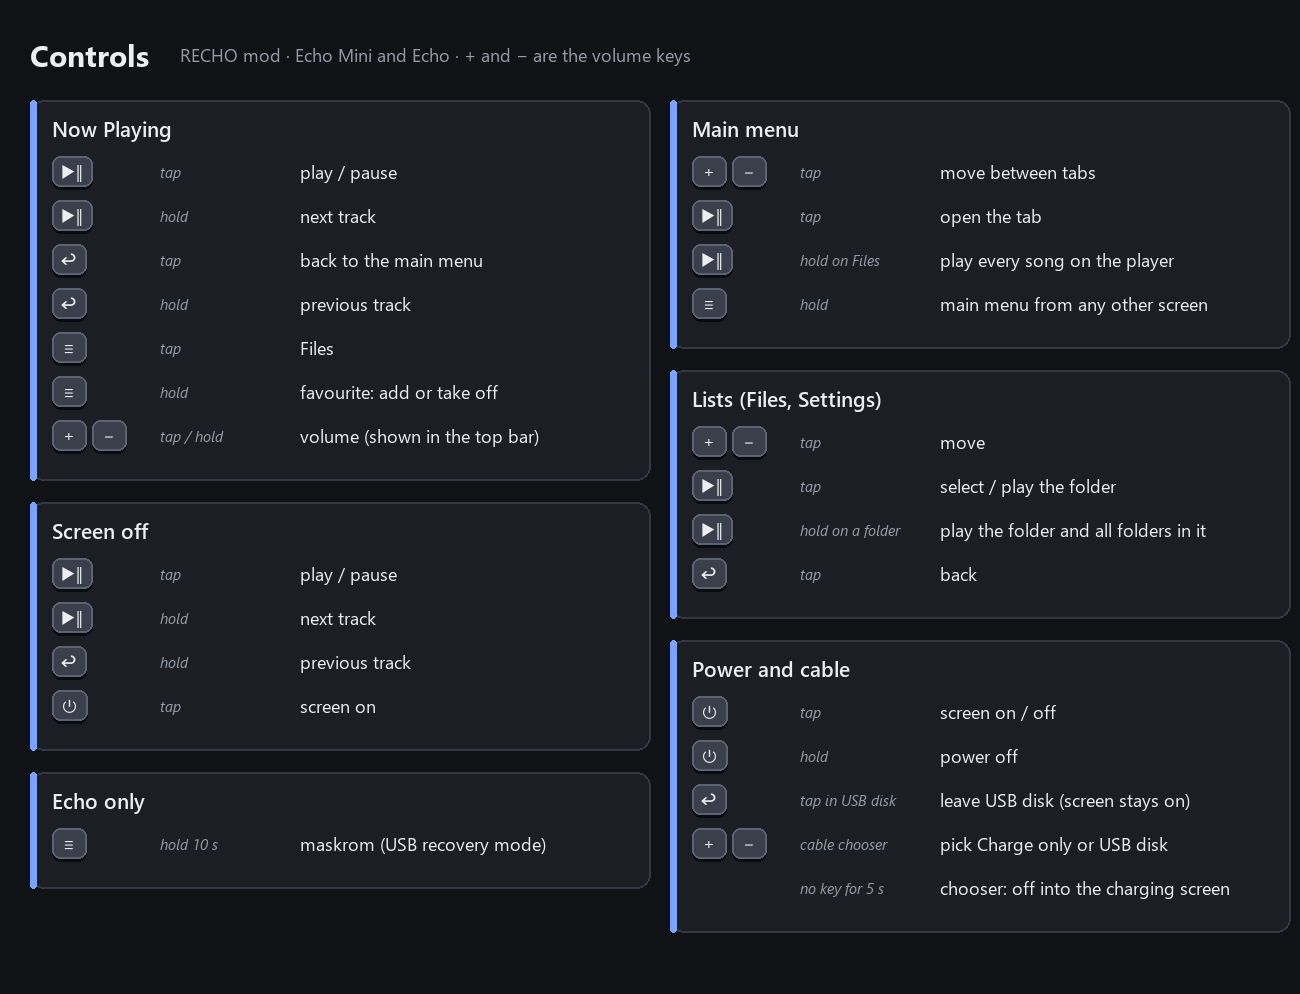
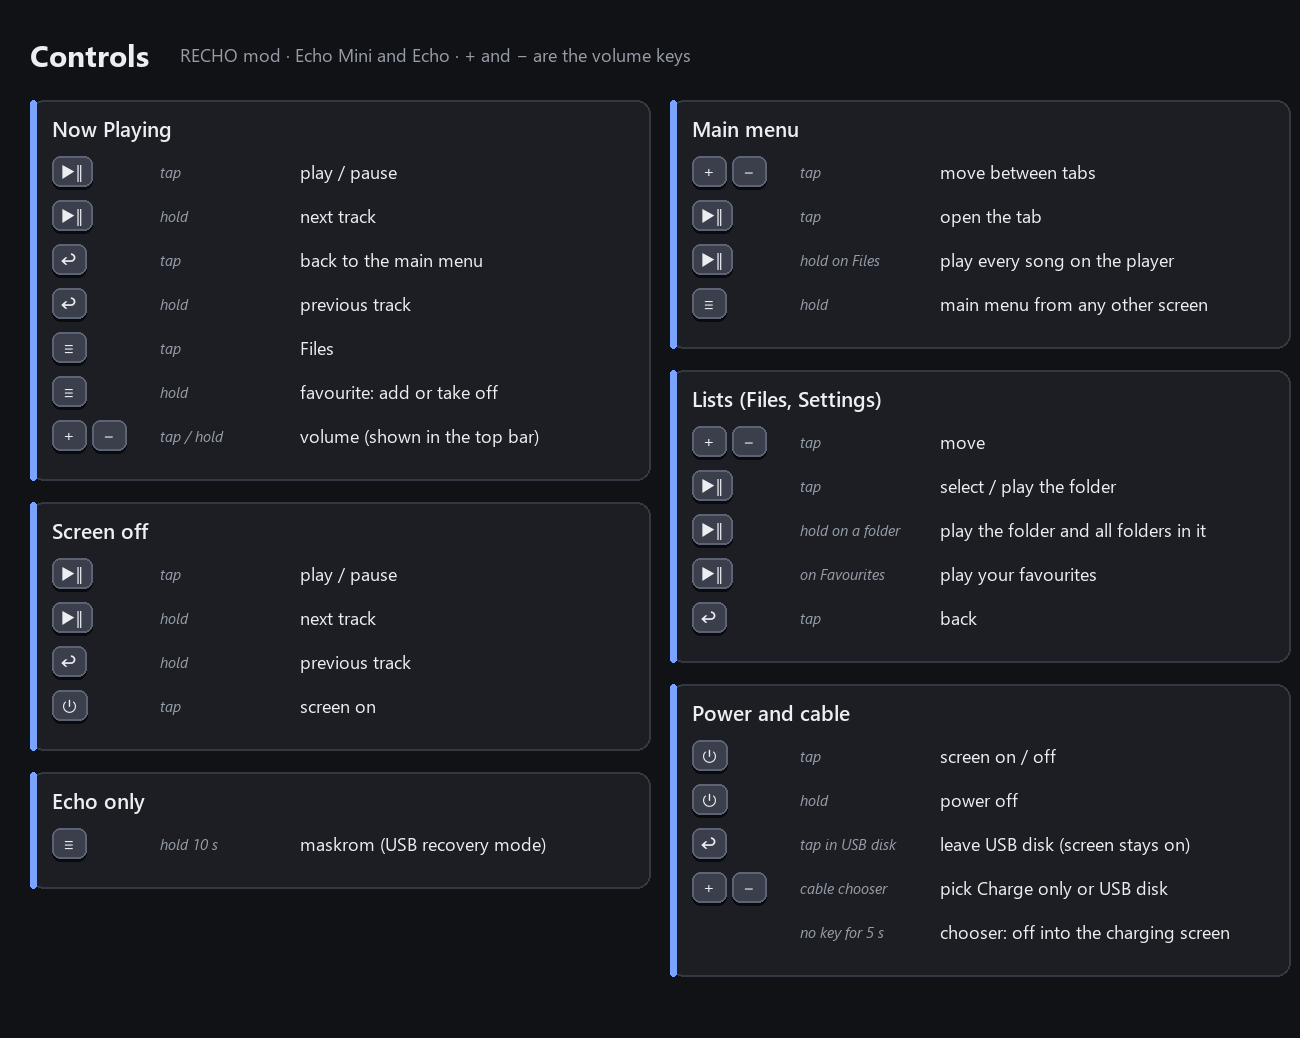
Play favourites from a Favourites folder in Files; USB disk left with Back only, text says press back

diff --git a/patches/favs.c b/patches/favs.c
@@ -41,6 +41,13 @@ static inline u32 lit(u32 v)
 #define bar_message    FN(0x0305A874, void (*)(const char *text))
 #define current_screen FN(0x0305C41C, const volatile u32 *(*)(void))
 #define request_redraw FN(0x0305C51C, void (*)(const void *screen))
+#define find_name      FN(0x030638FC, int (*)(void *volume, u32 folder, const char *name, u32 len, char *rec))
+#define queue_start    FN(0x0305B3AC, void *(*)(void))                 /* RECHO's queue builder */
+#define queue_add      FN(0x03063F74, int (*)(void *q, u32 vol, u32 folder, const char *rec, const char *path))
+#define queue_finish   FN(0x0305B3F0, int (*)(int a, const char *name))
+#define queue_abandon  FN(0x0305B2FC, void (*)(void))
+#define set_module     FN(0x0305B234, void (*)(int module))
+#define M44_SD_FLAG    REG(0x0303AB2C)
 #define Q_ACTIVE       REG(0x0303BD74)
 #define Q_CURRENT      REG(0x0303BD78)
 #define CURRENT_MODULE REG(0x030399C8)
@@ -49,6 +56,8 @@ static inline u32 lit(u32 v)
 #define FAV_BUF  PTR(char *, 0x03045000)       /* FAV_MAX + 2 bytes, free RAM (docs/08-memory.md) */
 #define FAV_PATH PTR(char *, 0x03046100)       /* 256 bytes: the song's path */
 #define FAV_RAW  PTR(char *, 0x03046200)       /* 512 bytes: its line from RQUEUE.M3U */
+#define FAV_REC  PTR(char *, 0x03046400)       /* 276 bytes: a directory record from find_name */
+#define FAV_DIR  PTR(char *, 0x03046520)       /* 256 bytes: the song's folder as "/A/B/" */
 #define PATH_MAX 255u
 #define RAW_MAX  511u
 
@@ -56,6 +65,7 @@ static inline u32 lit(u32 v)
 STATE volatile u32 fav_is_current = 0;         /* np_draw: heart after the title */
 STATE volatile u32 fav_request = 0;            /* keys.c: hold ≡ on Now Playing */
 STATE volatile u32 fav_key = 0xFFFFFFFFu;      /* track + screen the flag belongs to */
+STATE volatile u32 fav_play_request = 0;       /* keys.c: ▶‖ on the Favourites folder in Files */
 
 static const char PREFIX[] = "file:///internal/";
 
@@ -199,9 +209,83 @@ __attribute__((noinline)) static void toggle(void)   /* the only file write: ver
     redraw();
 }
 
+/* Play FAVORITE.M3U: each line is walked folder by folder with RECHO's name lookup and added to
+ * a new queue with the routine Files uses for a folder (m44 0x307A278 -> 0x3063F74); RECHO then
+ * finishes the queue, starts playing and Now Playing opens, as after holding ▶‖ on a folder. */
+__attribute__((noinline)) static void play_list(void)
+{
+    void *v = volume_of(0);
+    u32 n = v ? list_load(v) : 0;
+    if (n > FAV_MAX)
+        n = FAV_MAX;
+    if (!n) {
+        bar_message("No favourites yet: hold \xe2\x89\xa1 on Now Playing");
+        return;
+    }
+    M44_SD_FLAG = 0;                           /* internal drive, as Files sets it */
+    void *q = queue_start();
+    if (!q)
+        return;                                /* RECHO showed why */
+    const char *b = FAV_BUF;
+    u32 added = 0;
+    for (u32 i = 0; i < n;) {
+        u32 e = i;
+        while (e < n && b[e] != '\n')
+            e++;
+        u32 l = e;
+        if (l > i && b[l - 1] == '\r')
+            l--;
+        if (l > i && b[i] != '#') {            /* a song: "A/B/Song.flac" */
+            char *dir = FAV_DIR;
+            u32 d = 0, folder = 0, s = i, ok = 1;
+            dir[d++] = '/';
+            for (u32 k = i; k <= l && ok; k++) {
+                if (k < l && b[k] != '/' && b[k] != '\\')
+                    continue;
+                u32 len = k - s;
+                if (!len || len > 250u) {
+                    ok = 0;
+                    break;
+                }
+                char *name = FAV_PATH;          /* one path part, NUL-terminated */
+                for (u32 j = 0; j < len; j++)
+                    name[j] = b[s + j];
+                name[len] = 0;
+                if (find_name(v, folder, name, len, FAV_REC) != 0) {
+                    ok = 0;
+                    break;
+                }
+                if (k < l) {                    /* a folder: go in */
+                    folder = *(const u32 *)(FAV_REC + 260);
+                    for (u32 j = 0; j < len && d < 250u; j++)
+                        dir[d++] = name[j];
+                    dir[d++] = '/';
+                }
+                s = k + 1u;
+            }
+            dir[d] = 0;
+            if (ok && queue_add(q, 0, folder, FAV_REC, dir) == 0)
+                added++;
+        }
+        i = e + 1u;
+    }
+    if (!added) {
+        queue_abandon();
+        bar_message("Favourites: no songs found");
+        return;
+    }
+    if (queue_finish(-1, "Favourites") >= 0)
+        set_module(45);
+}
+
 /* POWER tick: hold ≡ requests, and the heart for the song on Now Playing */
 void fav_tick(void)
 {
+    if (fav_play_request) {                    /* from Files (m44), handled before the module check */
+        fav_play_request = 0;
+        play_list();
+        return;
+    }
     if (CURRENT_MODULE != 45u) {
         fav_request = 0;
         fav_key = 0xFFFFFFFFu;                 /* look again when Now Playing opens */

diff --git a/tools/verify_image.py b/tools/verify_image.py
@@ -40,7 +40,9 @@ UI_CALLS = {0x03058D84, 0x03058D20, 0x0305AEEC,                 # draw text, tex
             0x03064B64,                                                   # queue entry name (Up Next); which functions: checked below
             0x0307A108, 0x0307A278, 0x0305A02C,                           # m47 key handler, m44 folder tree, select drive (hold Play on Files)
             0x030531F0, 0x03053934, 0x03053BF4,                           # favourites: find 8.3 file, read, write whole file (checked below)
-            0x0305A874}                                                   # bar message for 2 s (favourites)
+            0x0305A874,                                                   # bar message for 2 s (favourites)
+            0x030638FC, 0x0305B3AC, 0x03063F74, 0x0305B3F0, 0x0305B2FC,   # find name in folder; queue start / add / finish / abandon (play favourites)
+            0x0307AE10}                                                   # m44 Files key handler (files_key passes everything else on)
 UI_DATA = {0x03034B48,                                                    # font table
            0x030041D0, 0x0303AB8C,                                        # volume dB, last volume change
            0x030041B4, 0x030399B8, 0x030399BC,                            # chooser cursor, countdown
@@ -51,7 +53,8 @@ UI_DATA = {0x03034B48,                                                    # font
            0x0303BD80, 0x03044000, 0x03048200,                            # queue store; Up Next cache and name buffer (free RAM)
            0x03006174, 0x0303AB2C, 0x0303BCC4, 0x0307A000,               # backlight duty, m44 SD flag, menu cursor, module overlay
            0x0307A278,                                                    # m44 code, read only (signature check before calling it)
-           0x03045000, 0x03046100, 0x03046200}                            # favourites: list, path and queue-line buffers (free RAM)
+           0x03045000, 0x03046100, 0x03046200, 0x03046400, 0x03046520,    # favourites: list, path, queue line, record, folder (free RAM)
+           0x030399D0, 0x03085BD0, 0x0303AB30}                            # Files: state (cursor, depth), listing, drive-list flag
 ALLOWED_CALLS |= UI_CALLS
 ALLOWED_DATA |= UI_DATA
 # Bluetooth (patches/bt.c): RECHO's GPIO function / log, the module's UART1, the UART1 pin
@@ -248,6 +251,8 @@ def main(orig_path, new_path):
               f"module m{mid} ({name}) blanked: {ln} bytes, nothing opens it")
         allowed.append((off, off + ln, f"module m{mid} ({name}) blanked"))
     allowed.append((0x2A494, 0x2A494 + u32(a, 0x2A494 + 12), "module m45 (Now Playing)"))
+    allowed.append((0x28ED4, 0x28ED4 + u32(a, 0x28ED4 + 12), "module m44 (Files)"))
+    allowed.append((0x0305E877 - RAM_OF_IMG, 0x0305E877 - RAM_OF_IMG + 38, "USB disk text"))
     allowed.append((0x0305BF18 - RAM_OF_IMG, 0x0305BF18 - RAM_OF_IMG + 4, "hold-menu call"))
     for addr, n, what in ((0x0305C4B8, 2, "content area bottom (1)"), (0x0305C4EE, 2, "content area bottom (2)"),
                           (0x03060BBC, 4, "HINTS layer draw pointer"), (0x03060AD4, 4, "cable chooser draw pointer"),
@@ -557,6 +562,14 @@ def main(orig_path, new_path):
     bs = 0x03050D7C - RAM_OF_IMG
     check(bl_target(a, bs, 0x03050D7C) == 0x0306C3E4 and bl_target(b, bs, 0x03050D7C) == entl["boot_screen"],
           "boot splash 0x3050d7c: bl 0x306c3e4 -> bl boot_screen")
+    ut = 0x0305E877 - RAM_OF_IMG
+    check(a[ut:ut + 38] == b"eject on the computer, or press power\x00"
+          and b[ut:ut + 38] == b"eject on the computer, or press back\x00\x00", "USB disk text: or press back")
+    fk = 0x28ED4 + 0x0307B5A8 - 0x0307A000
+    ent_f = {k: int(x, 16) for k, x in (l.split() for l in open(os.path.join(root, "build", HOOKS + ".entries")))}
+    check(u32(a, fk) == 0x0307AE11 and u32(b, fk) == (ent_f["files_key"] | 1)
+          and a[0x28ED4 + 0x158C:0x28ED4 + 0x1592] == b"BROWSE",
+          "Files descriptor key 0x307ae11 -> files_key (Favourites folder plays the list)")
     au = 0x0305BC8A - RAM_OF_IMG
     check(a[au:au + 2] == bytes.fromhex("2c22") and b[au:au + 2] == bytes.fromhex("2f22")
           and a[0x0305BC8C - RAM_OF_IMG:0x0305BC8E - RAM_OF_IMG] == b[0x0305BC8C - RAM_OF_IMG:0x0305BC8E - RAM_OF_IMG],

diff --git a/patches/keys.c b/patches/keys.c
@@ -78,8 +78,7 @@ static int back_now(void)                                     /* blocking read, 
 
 u32 usb_key_exit(void)
 {
-    int power = power_key_down() != 0, back = 0;
-    if (!power) {
+    {                                                         /* Back only (the screen says so) */
         u32 now = ms_now();
         if (usb_adc_chan == 0xFFFFFFFFu) {                    /* first call: remember RECHO's channel */
             usb_adc_chan = ADC[2] & 7u;
@@ -94,12 +93,11 @@ u32 usb_key_exit(void)
         usb_back_hits = (v >= BACK_LO && v <= BACK_HI) ? usb_back_hits + 1u : 0u;
         adc_start(1);
         usb_adc_at = now;
-        back = usb_back_hits >= 2u;                           /* two readings in a row, 20 ms apart */
-        if (!back)
+        if (usb_back_hits < 2u)                               /* two readings in a row, 20 ms apart */
             return 0;
     }
     for (u32 t = 0; t < 3000u; t += 10u) {                    /* wait for the release (3 s at most) */
-        if (power ? !power_key_down() : !back_now())
+        if (!back_now())
             break;
         delay_ms(10);
     }
@@ -168,4 +166,53 @@ void play_all_tick(void)
         return;
     M44_SD_FLAG = 0;
     m44_tree(0, "Music");
+}
+
+/*
+ * Files: a folder named "Favourites" (or "Favorites") at the top of the internal drive plays
+ * FAVORITE.M3U instead of opening (favs.c builds the queue). Files' screen descriptor key handler
+ * (m44 0x307B5A8 = 0x307AE11) is files_key; it takes ▶‖ only when Files shows the top folder
+ * (depth 0, not the drive list) and the entry under the cursor is that folder. Everything else,
+ * and anything that does not match, goes to RECHO's handler, so the folder then simply opens.
+ *   0x030399D0  Files state: [0] cursor, [4] folder depth
+ *   0x03085BD0  listing: [1] entries; entry i at +20i: +24 name (pool at +0x298), +43 type (0 folder)
+ *   0x0303AB30  m44: 1 while the drive list (Internal / SD card) is shown
+ */
+#define files_key_orig FN(0x0307AE10, int (*)(const unsigned char *ev))
+#define FILES_STATE    ((const volatile u32 *)lit(0x030399D0u))
+#define LISTING        ((const volatile unsigned char *)lit(0x03085BD0u))
+#define DRIVE_LIST     REG(0x0303AB30)
+
+static int is_favourites(const volatile unsigned char *s)
+{
+    static const char A[] = "favourites", B[] = "favorites";
+    int ia = 1, ib = 1, i = 0;
+    for (; s[i] && i < 12; i++) {
+        unsigned char c = s[i];
+        if (c >= 'A' && c <= 'Z')
+            c = (unsigned char)(c + 32);
+        if (i >= 10 || c != (unsigned char)A[i])
+            ia = 0;
+        if (i >= 9 || c != (unsigned char)B[i])
+            ib = 0;
+    }
+    return (ia && i == 10) || (ib && i == 9);
+}
+
+int files_key(const unsigned char *ev)
+{
+    extern volatile u32 fav_play_request;
+    if (ev[0] == 4 && !DRIVE_LIST && FILES_STATE[4] == 0u) {
+        u32 cur = FILES_STATE[0], count = *(const volatile u32 *)(LISTING + 4);
+        if (cur < count && cur < 256u) {
+            const volatile unsigned char *e = LISTING + 20u * cur;
+            u32 name = *(const volatile u32 *)(e + 24);
+            if (e[43] == 0u && name < 4096u && is_favourites(LISTING + 0x298u + name)) {
+                if (ev[1] == 2u || ev[1] == 3u)               /* tap or hold: play the list */
+                    fav_play_request = 1;
+                return 1;                                     /* press / repeat: nothing */
+            }
+        }
+    }
+    return files_key_orig(ev);
 }

diff --git a/tools/patch_recho.py b/tools/patch_recho.py
@@ -214,10 +214,24 @@ def boot_splash(d, e):
 USB_KEY_CALL = 0x0305062C   # USB-disk loop callback: `bl power_key_down` (armed) -> leave USB disk
 
 
+USB_TEXT = 0x0305E877         # "eject on the computer, or press power" on the USB disk screen
+M44_IMG = 0x28ED4             # module m44 (Files)
+FILES_KEY_PTR = 0x0307B5A8    # m44 BROWSE descriptor +28: key handler (0x307AE11)
+
+
 def usb_back_key(d, e):
-    """Both players: Back (or power) leaves USB disk, after the key is released (patches/keys.c)."""
+    """Both players: Back leaves USB disk, after the key is released (patches/keys.c)."""
     put(d, USB_KEY_CALL - RAM_OF_IMG, thumb_bl(USB_KEY_CALL, 0x03051C70),
         thumb_bl(USB_KEY_CALL, e["usb_key_exit"]), "USB disk key -> usb_key_exit")
+    put(d, USB_TEXT - RAM_OF_IMG, b"eject on the computer, or press power\x00",
+        b"eject on the computer, or press back\x00\x00", "USB disk text: press back")
+
+
+def files_favourites(d, e):
+    """Both players: a "Favourites" folder at the top of Files plays FAVORITE.M3U (patches/keys.c)."""
+    o = M44_IMG + FILES_KEY_PTR - 0x0307A000
+    put(d, o, struct.pack("<I", 0x0307AE11), struct.pack("<I", e["files_key"] | 1), "Files key -> files_key")
+    reseal_module(d, M44_IMG)
 
 
 AFTER_USB_SCREEN = 0x0305BC8A   # after USB disk: `movs r2,#44` = the screen to open (Files)
@@ -304,6 +318,7 @@ def add_hooks(d, animation=True, echo=False):
     volume_text(d, e)
     boot_splash(d, e)
     usb_back_key(d, e)
+    files_favourites(d, e)
     after_usb_main_menu(d)
     ui_layout(d, e)
     if not echo:                                   # Bluetooth routing holds GPIO2.0 / GPIO2.14

diff --git a/tools/render_docs.py b/tools/render_docs.py
@@ -194,6 +194,7 @@ SECTIONS = [
     ("Lists (Files, Settings)", [
         (["vol+", "vol-"], "tap", "move"), (["play"], "tap", "select / play the folder"),
         (["play"], "hold on a folder", "play the folder and all folders in it"),
+        (["play"], "on Favourites", "play your favourites"),
         (["back"], "tap", "back")]),
     ("Screen off", [
         (["play"], "tap", "play / pause"), (["play"], "hold", "next track"),

diff --git a/docs/CHANGELOG.md b/docs/CHANGELOG.md
@@ -12,6 +12,7 @@ Builds are patched from RECHO 0.10.1 `2d11bdcd`. "Device" means tested on a real
 | v6 | Debug removed from menu; Settings without Show tags / On USB connect / Debug strip; cable chooser Charge only / USB disk, no DAC | device |
 | v7 | no key for 5 s on a cable → power off into the charging screen | device |
 | v8 | button remap: ↩ tap = Back, hold ≡ on Now Playing = Settings; bar labels | built, verified |
+| v43 | **play favourites from Files:** ▶‖ on the *Favourites* folder at the top of the drive queues `FAVORITE.M3U` with RECHO's own queue builder; USB disk left with Back only, its screen says "or press back" | built, verified |
 | v42 | **favourites:** hold ≡ on Now Playing adds / removes the song, a heart after the title, saved as `FAVORITE.M3U` (a playlist phones read); Bluetooth diagnostic logging removed (raw capture, register and pin dumps, every module message; earbud buttons still logged) | built, verified |
 | v41 | **Bluetooth audio on the Mini:** routing ported from the Echo (DAC mute GPIO2.0 high, GPIO2.14 low, held by a GPIO-set hook as on the Echo; RECHO's muted DACs kept at the user's volume while streaming) | built, verified |
 | v40 | clock: re-read right after Settings closes and every minute (was 5 min), so a newly set time shows at once; weekday worked out from the date (the chip's weekday can disagree) | built, verified |
@@ -58,6 +59,7 @@ Builds are patched from RECHO 0.10.1 `2d11bdcd`. "Device" means tested on a real
 | 5 | own Now Playing screen (red paused state, volume on change), full-width bar, two-halves cable chooser, centred charging screen, battery and mode in Up Next | built |
 | 6 | button remap | built |
 | 7 | no button bar; screen and Up Next centred vertically; RECHO's bar messages on one line | built |
+| 51 | favourites from Files and Back-only USB, as Mini v43 | built, verified |
 | 50 | favourites and the logging clean-up, as Mini v42 | built, verified |
 | 49 | lyric letters at 1.5x drawn as 2 x 2 blocks, so every stroke is 2 px (was 1 or 2 px); Bluetooth code shared with the Mini | built, verified |
 | 48 | **Bluetooth audio fix:** RECHO leaves both DAC chips muted (PCM volume 0xFF) with nothing in the jacks; while streaming they are now kept at the user's volume, 6.5 dB below wired (found by comparing the stage 47 dump with Podium's); dump code removed | built, verified |

diff --git a/docs/controls.md b/docs/controls.md
@@ -71,6 +71,10 @@ Music/Album/Song.flac
   app's own "liked songs", which each app keeps to itself.
 - **You can edit it** in any text editor: one song per line, as its path from the top of the drive.
   Edit it on the computer, plug the player back in, and the hearts follow.
+- **Play them:** open **Files** and press <kbd>▶‖</kbd> (tap or hold) on the **Favourites** folder at
+  the top of the drive. The player queues every song in `FAVORITE.M3U` and opens Now Playing; shuffle,
+  repeat, Up Next and resume work as for any folder. The folder itself stays empty: it is only the
+  button. (RECHO cannot create folders, so it is made once from a computer; delete it and the row goes.)
 - **Limits:** songs on the internal drive only (not an SD card), and up to 4 KB of list, about 50–60
   songs; past that the player says *Favourites full* instead of risking the drive.
 
@@ -120,7 +124,7 @@ These are RECHO's own; the mod's menu gestures only work while the screen is on.
 | Any time | <kbd>⏻</kbd> hold | power off (with a cable: the charging screen) |
 | Cable plugged in | <kbd>+</kbd> <kbd>−</kbd>, then <kbd>▶‖</kbd> | choose **Charge only** or **USB disk** |
 | Cable plugged in | nothing for 5 s | Charge only: the player powers off into the charging screen |
-| USB disk mode | <kbd>↩</kbd> tap (or <kbd>⏻</kbd>) | leave USB disk and go to the main menu; the screen stays on |
+| USB disk mode | <kbd>↩</kbd> tap | leave USB disk and go to the main menu; the screen stays on |
 | Charging screen | <kbd>⏻</kbd> tap | show the screen again |
 | Charging screen | <kbd>⏻</kbd> hold | start the player |
 

diff --git a/README.md b/README.md
@@ -53,7 +53,7 @@ belongs to RECHO first: get it from [its site](https://recho.atzkey.workers.dev/
 | Pixel-art main menu: Files · USB disk · Now Playing · Bluetooth · Settings | ✅ | ✅ |
 | **Hold ▶‖ on Files** in the main menu: play every song | ✅ | ✅ |
 | **↩ leaves USB disk** (the screen stays on), back to the main menu | ✅ | ✅ |
-| **Favourites:** hold ≡ on Now Playing, a heart after the title, saved as `FAVORITE.M3U` (phones read it) | ✅ | ✅ |
+| **Favourites:** hold ≡ on Now Playing, a heart after the title, play them from a *Favourites* folder in Files; saved as `FAVORITE.M3U` (phones read it) | ✅ | ✅ |
 | Terminal-style boot screen in RECHO's own font | ✅ | ✅ |
 | Off-state charging screen and charging animation | ✅ | ✅ |
 | Cable chooser *Charge only / USB disk*, idle 5 s = power off into the charging screen | ✅ | ✅ |
@@ -129,7 +129,7 @@ Details, maskrom recovery and the exact commands: [docs/10-install-and-recovery.
 | 🎧 | [12 Bluetooth](docs/12-bluetooth.md) | Bluetooth work in progress and the hardware facts |
 | 🔬 | [13 Reverse engineering](docs/13-reverse-engineering.md) | Method, scripts (`tools/re/`), every finding with its evidence, how to replicate a build |
 | 📝 | [Echo port research notes](docs/research/echo-port-notes.md) | Sources, hardware facts Mini vs Echo, FiiO updater, RECHO RAM map |
-| 📜 | [CHANGELOG](docs/CHANGELOG.md) | Build history: Echo Mini v1–v42, Echo stages 1–50 |
+| 📜 | [CHANGELOG](docs/CHANGELOG.md) | Build history: Echo Mini v1–v43, Echo stages 1–51 |
 
 ## Repository layout
 

diff --git a/docs/06-echo-ui.md b/docs/06-echo-ui.md
@@ -177,3 +177,15 @@ Hold ≡ on Now Playing (`hold_menu` in `keys.c`, which used to open Settings th
    9 × 8 red heart after the title (Echo: after the 2x title; Mini: after its last line).
 
 Messages use RECHO's bar message (`0x305A874`, 2 s): the Echo's strip, the Mini's bottom bar.
+
+### Playing favourites from Files (`files_key`, `play_list`)
+
+Files' screen descriptor key handler (m44 `0x307B5A8`, RECHO's `0x307AE11`) is `files_key` (`keys.c`).
+It takes ▶‖ only when Files shows the top folder (state `0x030399D0` +16 = 0, the drive list
+`0x0303AB30` not shown) and the entry under the cursor (listing `0x03085BD0`, entry +43 = 0: a folder)
+is named *Favourites* or *Favorites*; everything else goes to RECHO. `play_list` (`favs.c`) then does
+what Files does for a folder (`0x307A278`): `0x305B3AC` starts a queue, each line of `FAVORITE.M3U` is
+walked folder by folder with `0x30638FC` (find a name in a folder, cluster at record +260) and added with
+`0x3063F74(queue, 0, folder, record, "/A/B/")`, then `0x305B3F0(-1, "Favourites")` finishes it and Now
+Playing opens. Lines that are not found are skipped; with none found the queue is abandoned
+(`0x305B2FC`).

diff --git a/docs/07-buttons.md b/docs/07-buttons.md
@@ -12,7 +12,8 @@
 | Now Playing | <kbd>≡</kbd> hold | main menu | add to / remove from favourites (`FAVORITE.M3U`) | fw1 `0x305BF18` → `hold_menu` → `favs.c` |
 | Main menu, Files tab | <kbd>▶‖</kbd> hold | next track | play every song on the internal storage | m47 key pointer `0x307AAA4` → `menu_key` |
 | USB disk | <kbd>↩</kbd> tap | nothing | leave USB disk | fw1 `0x305062C` → `usb_key_exit` |
-| USB disk | <kbd>⏻</kbd> tap | leave, and the press also turns the screen off | leave; the screen stays on | same |
+| USB disk | <kbd>⏻</kbd> tap | leave, and the press also turns the screen off | nothing (Back leaves; the screen says "or press back") | same; text at `0x305E877` |
+| Files, *Favourites* folder | <kbd>▶‖</kbd> tap / hold | open / play the folder | play `FAVORITE.M3U` | m44 key pointer `0x307B5A8` → `files_key` |
 | after USB disk | (any way out) | opens Files | opens the main menu | fw1 `0x305BC8A` `movs r2,#44` → `#47` |
 | Echo, anywhere | <kbd>≡</kbd> hold 10 s | nothing | maskrom | `echo_hatch_tick` ([04](04-echo-port.md)) |
 
